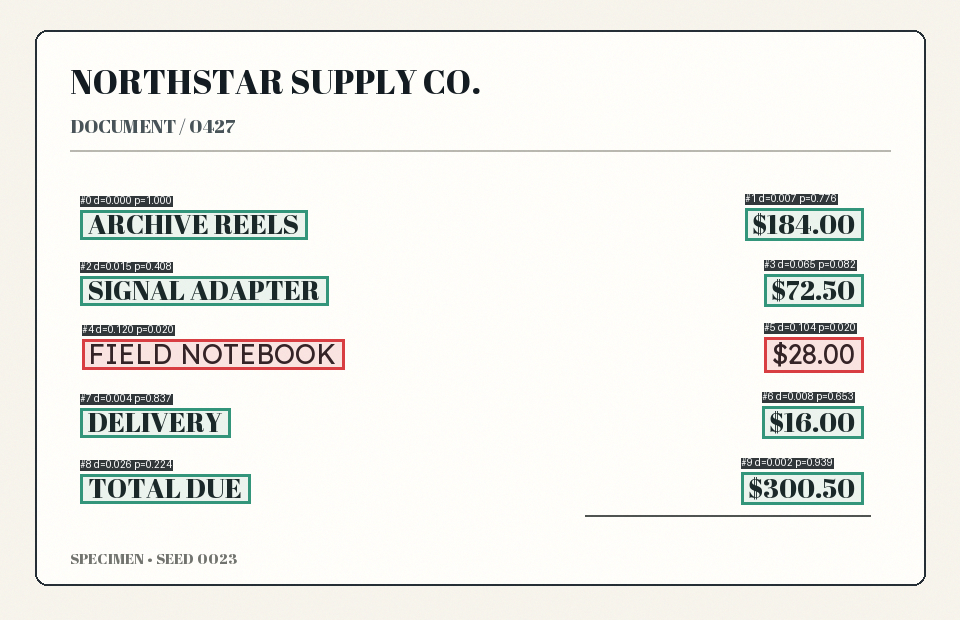
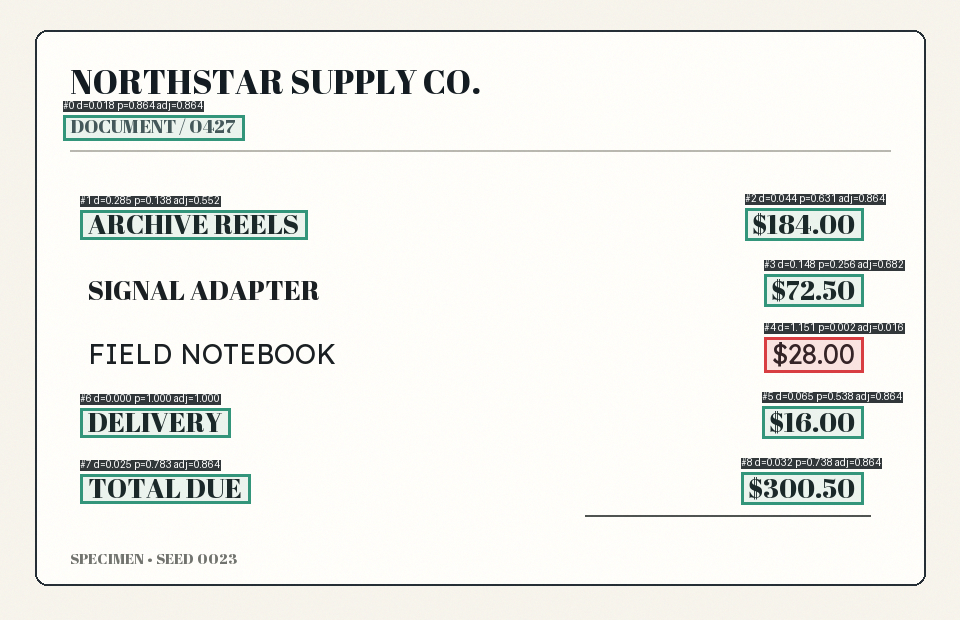
docs: publish measured detection results
The README claimed an interesting design and proved none of it. It now leads
with numbers from `fontprint benchmark` on the pinned twenty-face collection:
0.838 region AUROC, 0.83 precision, and a 5% document false-positive rate on
four faces the model never trained on, against 0.975 AUROC and 0.73 recall when
seen faces are included.

The three defects the benchmark caught are documented with their before-and-after
numbers rather than quietly fixed, the correction ablation shows that controlling
the error rate cost no true detections, and the low-recall trade-off is stated
plainly in the limitations. Architecture, model card, and data card follow the
page-matched calibration and the multiple-testing correction, and the example
overlay is regenerated from the current model.

diff --git a/tests/test_analyzer.py b/tests/test_analyzer.py
@@ -33,7 +33,7 @@ def test_analyzer_flags_a_visual_style_outlier() -> None:
     assert report.verdict == "typographic outlier detected"
     assert report.regions[2].is_anomaly
     assert report.regions[2].adjusted_p_value >= report.regions[2].p_value
-    assert report.to_dict()["correction"] == "holm"
+    assert report.to_dict()["correction"] == "bh"
     assert report.to_dict()["caveat"]
     assert analyzer.draw_overlay(image, report).size == image.size
 

diff --git a/README.md b/README.md
@@ -7,10 +7,14 @@
 **Open-set typography anomaly detection for document forensics.**
 Metric learning turns word crops into a font-style fingerprint, then calibrated inference highlights regions that disagree with the document's dominant typography.
 
+[![CI](https://github.com/BAAAAR19/MLAYMEN/actions/workflows/ci.yml/badge.svg)](https://github.com/BAAAAR19/MLAYMEN/actions/workflows/ci.yml)
 ![Python](https://img.shields.io/badge/Python-3.11–3.14-3776AB?logo=python&logoColor=white)
 ![PyTorch](https://img.shields.io/badge/PyTorch-2.5+-EE4C2C?logo=pytorch&logoColor=white)
+![Coverage](https://img.shields.io/badge/coverage-90%25-23a67a)
+![Types](https://img.shields.io/badge/mypy-strict-2a6db0)
 ![License](https://img.shields.io/badge/license-MIT-23a67a)
-![Tests](https://img.shields.io/badge/tests-pytest-0A9EDC?logo=pytest&logoColor=white)
+
+[Step-by-step guide](docs/USAGE.md) · [Architecture](docs/ARCHITECTURE.md) · [Model card](docs/MODEL_CARD.md) · [Data card](docs/DATA_CARD.md)
 
 </div>
 
@@ -29,9 +33,10 @@ That design makes the project more than an image classifier:
 
 - **Metric learning:** a residual CNN is trained with supervised contrastive loss plus an auxiliary classification head.
 - **Open-set evaluation:** entire font identities are held out from optimization; pair verification AUROC is reported only on those unseen faces.
-- **Uncertainty that means something:** held-out, query-to-medoid split-conformal p-values replace arbitrary “AI confidence” percentages.
+- **Uncertainty that means something:** split-conformal p-values replace arbitrary “AI confidence” percentages, and calibration is fitted through the deployed inference path so the nominal alpha survives contact with real pages.
 - **Weak supervision at scale:** a deterministic Pillow pipeline creates print/scan variation without distributing copyrighted document data.
 - **Explainable inference:** every decision includes a box, cosine distance, p-value, reference medoid, and nearest indexed style.
+- **Measured, not asserted:** `fontprint benchmark` scores the end-to-end decision on controlled substitutions and publishes the numbers, including the ones that are not flattering.
 - **Production surface:** typed CLI, FastAPI service, Gradio review desk, ONNX export, Docker, tests, and CI.
 
 ## How it works
@@ -43,21 +48,27 @@ flowchart LR
     C -->|SupCon + CE| D[Unit-sphere embeddings]
     D --> E[Known-style prototype index]
     D --> F[Conformal distance calibration]
+    B --> N[Clean synthetic pages]
+    N --> F
     G[Document image] --> H[OCR-free region proposals]
     H --> C
     C --> I[Robust document medoid]
     I --> J[Region distances + p-values]
     E --> J
     F --> J
-    J --> K[Evidence JSON + overlay]
+    J --> L[FDR correction across the page]
+    L --> K[Evidence JSON + overlay]
 ```
 
-The medoid comparison is robust while fewer than half of the analyzed regions are anomalous. No OCR text is used, so the signal comes from glyph shape rather than semantic content.
+The medoid comparison is robust while fewer than half of the analyzed regions are anomalous. No OCR text is used, so the signal comes from glyph shape rather than semantic content. Calibration is fitted on clean pages pushed through that same inference path, and the per-region p-values are corrected across the page before any region is called an outlier.
 
 ## Quick start
 
+Full walkthrough with expected output: **[docs/USAGE.md](docs/USAGE.md)**.
+
 ```bash
-cd fontprint
+git clone https://github.com/BAAAAR19/MLAYMEN.git
+cd MLAYMEN
 python -m venv .venv
 source .venv/bin/activate
 pip install -e '.[dev,demo]'
@@ -74,6 +85,9 @@ fontprint train --quick --font-root data/fonts
 # Generate a fictional test case, inspect it, and save the overlay
 fontprint synthesize --output specimen.png --tampered
 fontprint analyze specimen.png --checkpoint artifacts/fontprint.pt --overlay evidence.png
+
+# Score the whole pipeline, not just the embedding space
+fontprint benchmark --checkpoint artifacts/fontprint.pt --font-root data/fonts --markdown
 ```
 
 For a meaningful experiment, use `make train`. The included fetcher pins the Google Fonts repository commit, downloads each face with its OFL license, and writes a checksum manifest. Font files are discovered from standard OS locations, or can be supplied explicitly:
@@ -110,6 +124,61 @@ Docker users can place a trained checkpoint at `artifacts/fontprint.pt` and run:
 docker compose up --build
 ```
 
+## Measured results
+
+Twenty OFL faces, sixteen trained on and four reserved before the first optimizer
+step. Forty fictional invoices per run — half with exactly one substituted line, half
+internally consistent — scored through the deployed path: OCR-free proposals, encoder,
+page medoid, conformal p-values, FDR control at `alpha = 0.05`. Seed 101, Apple M1 CPU/MPS.
+
+| Split | Region AUROC | Region precision | Region recall | Document recall | Document FPR |
+|---|---|---|---|---|---|
+| **4 faces never trained on** | 0.838 | 0.833 | 0.167 | 0.20 | 0.05 |
+| All 20 faces | 0.975 | 0.774 | 0.727 | 0.80 | 0.30 |
+
+Representation metrics from the same run: `prototype_accuracy` 0.945 on seen faces,
+`heldout_pair_auroc` 0.813 on unseen ones.
+
+Read the top row as the honest one. Against a face the model has never seen, the
+distance still ranks substitutions well above consistent text, and the flags it does
+raise are right five times out of six — but it only catches about one substitution in
+six, and a quiet page is weak evidence of consistency.
+
+### What the benchmark caught
+
+Every number below is from `fontprint benchmark` on the held-out faces. Each finding
+was a defect the representation metrics could not see.
+
+| Finding | Before | After |
+|---|---|---|
+| Calibration fitted on word crops is not exchangeable with page regions | 36% of consistent regions flagged at a nominal 5% | 5.1% |
+| One alpha per region is not one alpha per page | 50% document false-positive rate | 5% |
+| Wide regions letterbox into unusable crops | FDR control flagged nothing | 0.83 precision at 0.17 recall |
+
+The multiple-testing correction is the clearest of the three, because it costs nothing:
+
+| Correction | Document FPR | Region precision | Region recall |
+|---|---|---|---|
+| `none` | 0.30 | 0.185 | 0.167 |
+| `bh` (default) | 0.05 | 0.833 | 0.167 |
+| `holm` | 0.05 | 0.833 | 0.167 |
+
+Not a single true detection was lost; only false ones were removed. Benjamini-Hochberg
+is the default because a reviewer works through a list of boxes and cares about the
+share of them that are wrong. `--correction holm` gives a strict family-wise guarantee,
+and `--correction none` returns the raw per-region behaviour for triage.
+
+Reproduce the top row with:
+
+```bash
+fontprint benchmark -m artifacts/fontprint.pt --proposals --documents 40 \
+  --font-root data/fonts/playfairdisplay --font-root data/fonts/rubik \
+  --font-root data/fonts/spacemono --font-root data/fonts/spectral
+```
+
+Numbers move with the font collection, the seed, and the machine. Publish `run.json`
+and `benchmark.json` alongside any claim rather than trusting the table above.
+
 ## Train and evaluate
 
 All experiment controls live in [`configs/base.yaml`](configs/base.yaml). A run writes two ignored artifacts:
@@ -124,9 +193,12 @@ The evaluation intentionally separates two questions:
 | `prototype_accuracy` | Seen font identities, new words/augmentations | Closed-set retrieval sanity |
 | `heldout_pair_auroc` | Entirely unseen font identities | Whether the learned distance transfers open-set |
 | Same/different distance gap | Seen and held-out | Embedding separation and collapse |
-| `calibration_threshold` | Query-to-medoid groups from held-out faces | Operating point for conformal anomaly evidence |
+| `calibration_threshold` | Clean pages from held-out faces, cut by the production proposer | Operating point for conformal anomaly evidence |
+| `word_group_threshold` | Query-to-medoid word groups | Diagnostic: how far word-crop calibration drifts from the page-matched one |
 
-No benchmark numbers are hard-coded into this README. Generate them on a declared font collection and machine, then publish `run.json` with a model release. This avoids presenting local system-font results as a universal benchmark.
+Calibration deliberately runs through the deployed inference path. Conformal validity needs the calibration and test scores to be exchangeable, and word crops are not exchangeable with regions the proposer cuts out of a rendered page — that mismatch alone turned a nominal 5% level into a measured 36%.
+
+Then, because a page carries one hypothesis per region, region p-values are corrected across the page before any decision is taken. Without that step a ten-region document raises a false alarm about 40% of the time no matter how well calibrated each region is.
 
 ## Export for deployment
 
@@ -147,8 +219,10 @@ src/fontprint/
 ├── losses.py          # supervised contrastive objective
 ├── calibration.py     # finite-sample conformal p-values
 ├── index.py           # exact cosine prototype retrieval
+├── metrics.py         # rank-based AUROC and PR helpers
 ├── training.py        # train/evaluate/calibrate pipeline
 ├── analyzer.py        # document medoid and evidence overlay
+├── benchmark.py       # end-to-end detection benchmark
 ├── api.py / demo.py   # FastAPI and Gradio surfaces
 └── export.py          # ONNX deployment bundle
 ```
@@ -166,6 +240,8 @@ Fontprint is inspired by [Supervised Contrastive Learning](https://arxiv.org/abs
 - Small crops, handwriting, curved text, decorative display faces, severe blur, and non-Latin scripts are out of scope for v0.1.
 - Synthetic augmentation narrows but does not eliminate the sim-to-real gap. A serious deployment needs a representative, consented real-scan validation set.
 - Conformal guarantees depend on exchangeability: production images must resemble the calibration setting.
+- **Recall is low by design and low in fact.** With the error rate controlled at the page level, the benchmark catches roughly one substitution in five on faces the model has never seen. A clean report is weak evidence of consistency, not proof of it. Use `--correction none` when you would rather review extra regions than miss one.
+- Regions wider than 8:1 are skipped rather than analyzed, because letterboxing destroys their glyph detail. A full table row therefore reaches the encoder as several word-level regions, and very wide single-line banners may go unexamined.
 
 ## Responsible use
 

diff --git a/docs/ARCHITECTURE.md b/docs/ARCHITECTURE.md
@@ -5,11 +5,16 @@ Fontprint separates representation learning from document-level decision logic. 
 ## Training path
 
 1. `fonts.py` discovers local OpenType/TrueType faces and rejects non-Latin or decorative system resources.
-2. `synthesis.py` renders lexically varied crops with rotation, blur, sensor noise, contrast changes, and JPEG degradation. Generation is deterministic per sample index.
+2. `synthesis.py` renders lexically varied crops with rotation, blur, sensor noise, contrast changes, and JPEG degradation. Generation is deterministic per sample index. Phrases are one to three words with mixed casing and occasional currency amounts, and the canvas tracks the measured ink extent, so training crops carry the same width and aspect statistics as regions cut out of a real page.
 3. `PKBatchSampler` supplies multiple examples from every selected font in a batch, which guarantees valid positives for supervised contrastive loss.
 4. `TrainingModel` optimizes normalized embeddings with supervised contrastive loss and a lower-weight classification loss. The classifier is discarded at inference.
 5. Validation embeddings from seen faces produce the known-style prototype index.
-6. Faces reserved before optimization provide the open-set pair-verification evaluation. Separately seeded samples from those faces are shuffled into disjoint reference/query groups; each query's distance to its group's medoid becomes a split-conformal calibration score.
+6. Faces reserved before optimization provide the open-set pair-verification evaluation. Separately seeded samples from those faces are shuffled into disjoint reference/query groups; each query's distance to its group's medoid becomes a word-level split-conformal calibration score.
+7. Calibration then runs a second time *through the deployed inference path*: clean pages are rendered from the reserved faces, the OCR-free proposer cuts them into regions, and each region's distance to the page medoid becomes a calibration score. This page-matched distribution is the one stored in the checkpoint; the word-level threshold is kept in `metrics` only as a diagnostic.
+
+### Why calibration is page-matched
+
+Split-conformal validity requires calibration scores and test scores to be exchangeable. Word-crop groups are not exchangeable with inference: a page contributes upper-case fragments, currency, headers, and proposer artifacts that the crop sampler never produces. Calibrating on word crops made the nominal 5% level behave like 36% in the benchmark. Calibrating through `render_document -> propose_regions -> encoder -> medoid` brings the empirical flag rate on style-consistent text back in line with alpha.
 
 ## Inference path
 
@@ -21,7 +26,15 @@ Each region's distance to that medoid is converted into a conformal p-value:
 p = (1 + number of calibration scores >= observed score) / (n + 1)
 ```
 
-A region is marked for review when `p <= alpha`. The model also returns its nearest known prototype as descriptive context; that label does not control the anomaly decision.
+A page carries one hypothesis per region, so those p-values are Holm-adjusted across the page before any decision is taken; the medoid is excluded from the family because it is the reference, not a hypothesis. A region is marked for review when its **adjusted** p-value is at or below alpha. Without the correction, eleven regions at a nominal 5% level produce a false flag on roughly 40% of clean pages; Holm holds the error rate at the page level and needs no independence assumption, which matters when every region is compared against one shared medoid. `--correction none` restores the uncorrected per-region behaviour for triage.
+
+Note that a conformal p-value can never fall below `1 / (n + 1)`, so the size of the calibration set bounds how much evidence the correction can ever see. That is why calibration renders a few dozen pages rather than a handful.
+
+The model also returns its nearest known prototype as descriptive context; that label does not control the anomaly decision.
+
+## Evaluation path
+
+`benchmark.py` scores the pipeline the way it is deployed rather than the way it is trained. It renders alternating tampered and clean pages, runs the analyzer, and reports document recall, document false-positive rate, region precision/recall/F1, region AUROC, and the empirical flag rate on style-consistent regions next to the nominal alpha. Boxes come either from ground truth (`--oracle-boxes`, isolating the encoder) or from the proposer (`--proposals`, measuring the whole system). Both modes report `proposal_coverage`, the fraction of ground-truth lines the OCR-free proposer recovered.
 
 ## Intentional design choices
 

diff --git a/docs/MODEL_CARD.md b/docs/MODEL_CARD.md
@@ -24,11 +24,15 @@ The primary objective is supervised contrastive loss over P×K batches. An auxil
 
 ## Evaluation
 
-Every training run reports seen-class prototype accuracy and pair-verification AUROC on font identities excluded from all optimizer updates. Separately seeded crops from those held-out identities supply disjoint query/reference groups for calibration. Treat these as dataset-specific diagnostics, not population-level performance claims. Report the font collection commit, capture domain, configuration, and random seed with any model release.
+Every training run reports seen-class prototype accuracy and pair-verification AUROC on font identities excluded from all optimizer updates. Conformal calibration is fitted on style-consistent synthetic pages built from those same held-out faces and passed through the deployed inference path, so the stored threshold reflects region-to-medoid distances rather than word-crop distances.
+
+Representation metrics alone do not describe the product, so `fontprint benchmark` scores the end-to-end decision on controlled substitutions: document recall, document false-positive rate, region precision/recall/F1, region AUROC, and the empirical flag rate on consistent text against the nominal alpha. Run it on held-out faces for an open-set reading.
+
+Treat all of these as dataset-specific diagnostics, not population-level performance claims. Report the font collection commit, capture domain, configuration, and random seed with any model release.
 
 ## Risks and limitations
 
-Font choice can correlate with language, geography, organization, document age, and software defaults. Those correlations do not establish tampering. Compression, reflow, rasterization engines, font hinting, bold/italic spans, and legitimate multi-font layouts may all change style distance. Synthetic calibration is not guaranteed to transfer to real capture pipelines.
+Decisions are made on Holm-adjusted p-values, so the 5% level applies to the page rather than to each region. At the default alpha the system is tuned for specificity, not recall: it is designed to keep quiet on consistent pages and surface a small number of strong leads. A negative result is therefore weak evidence of consistency, and recall on subtle substitutions between visually similar faces is limited. Font choice can correlate with language, geography, organization, document age, and software defaults. Those correlations do not establish tampering. Compression, reflow, rasterization engines, font hinting, bold/italic spans, and legitimate multi-font layouts may all change style distance. Synthetic calibration is not guaranteed to transfer to real capture pipelines.
 
 ## Human oversight
 

diff --git a/docs/DATA_CARD.md b/docs/DATA_CARD.md
@@ -6,12 +6,13 @@ Samples are generated at access time from font files already present on the user
 
 ## Generation
 
-Each sample combines a neutral document-domain word with a font face and seeded rendering parameters. Augmentations include small rotation, blur, grayscale sensor noise, contrast variation, positional jitter, font-size variation, and occasional JPEG recompression.
+Each sample combines a neutral document-domain phrase with a font face and seeded rendering parameters. Phrases hold one to three words, are lower-, upper-, or title-cased, and sometimes carry a fictional currency amount, which matches the text forms that appear on a page. The canvas is sized from the measured ink extent so crop aspect ratios match inference. Augmentations include small rotation, blur, grayscale sensor noise, contrast variation, positional jitter, font-size variation, and occasional JPEG recompression.
 
 ## Splits
 
 - Training and seen validation share font identities but use disjoint sample seeds.
 - Open-set holdout reserves entire font identities before optimization. Separate deterministic seeds are used for evaluation and conformal calibration crops.
+- Conformal calibration additionally renders whole clean pages from the held-out faces and cuts them with the production region proposer, so calibration and inference share a distribution.
 - `PKBatchSampler` selects P identities and K samples per identity.
 
 ## Licensing
